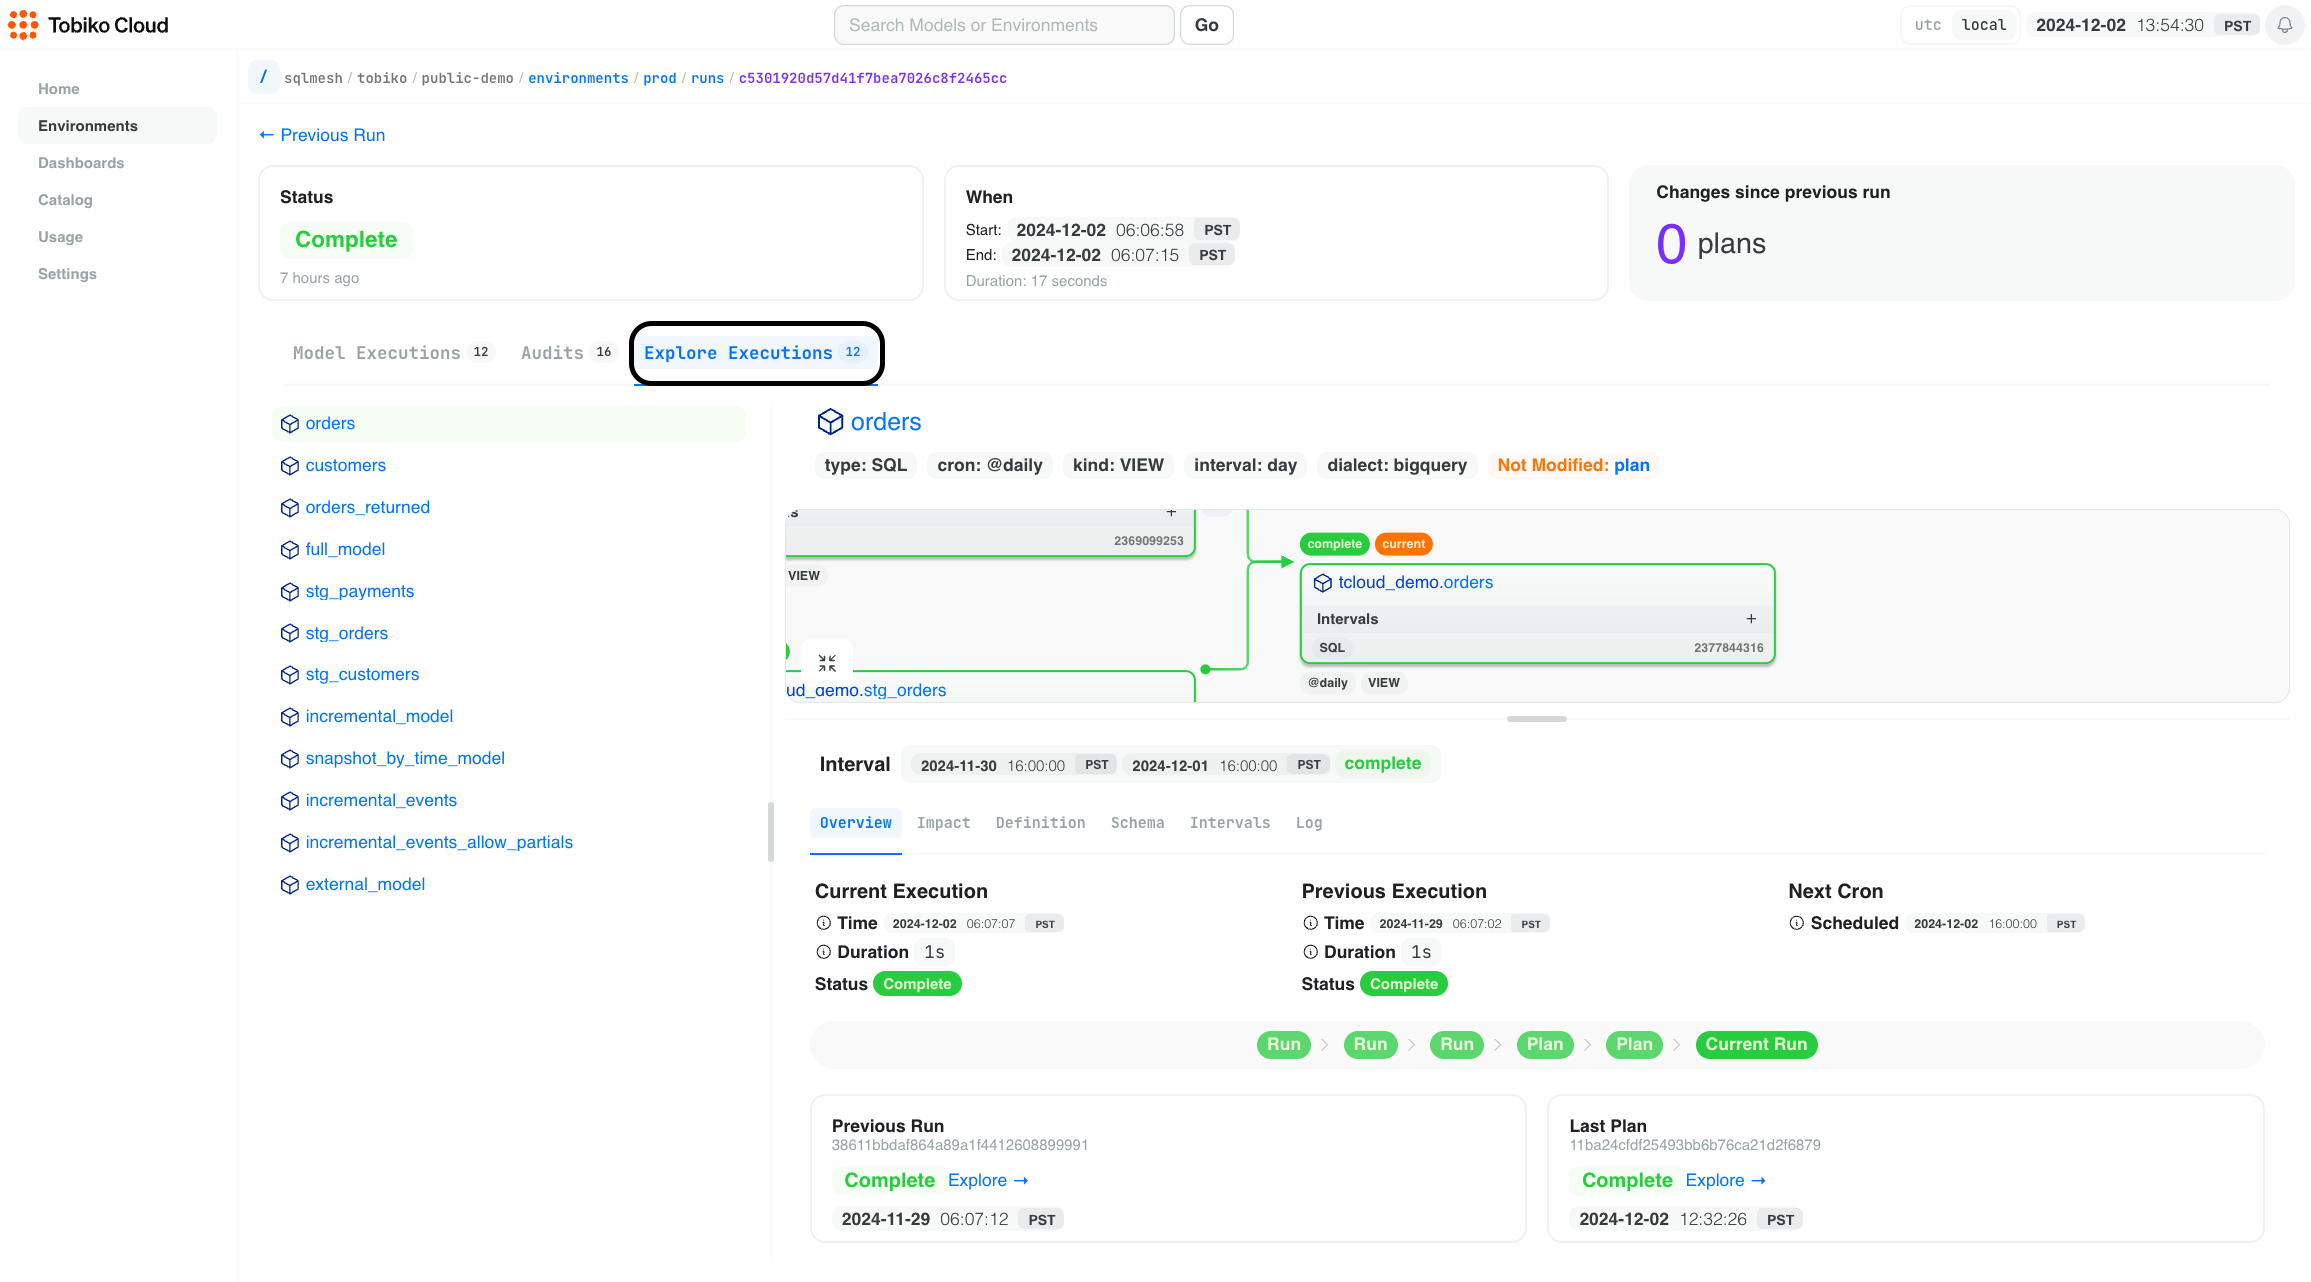
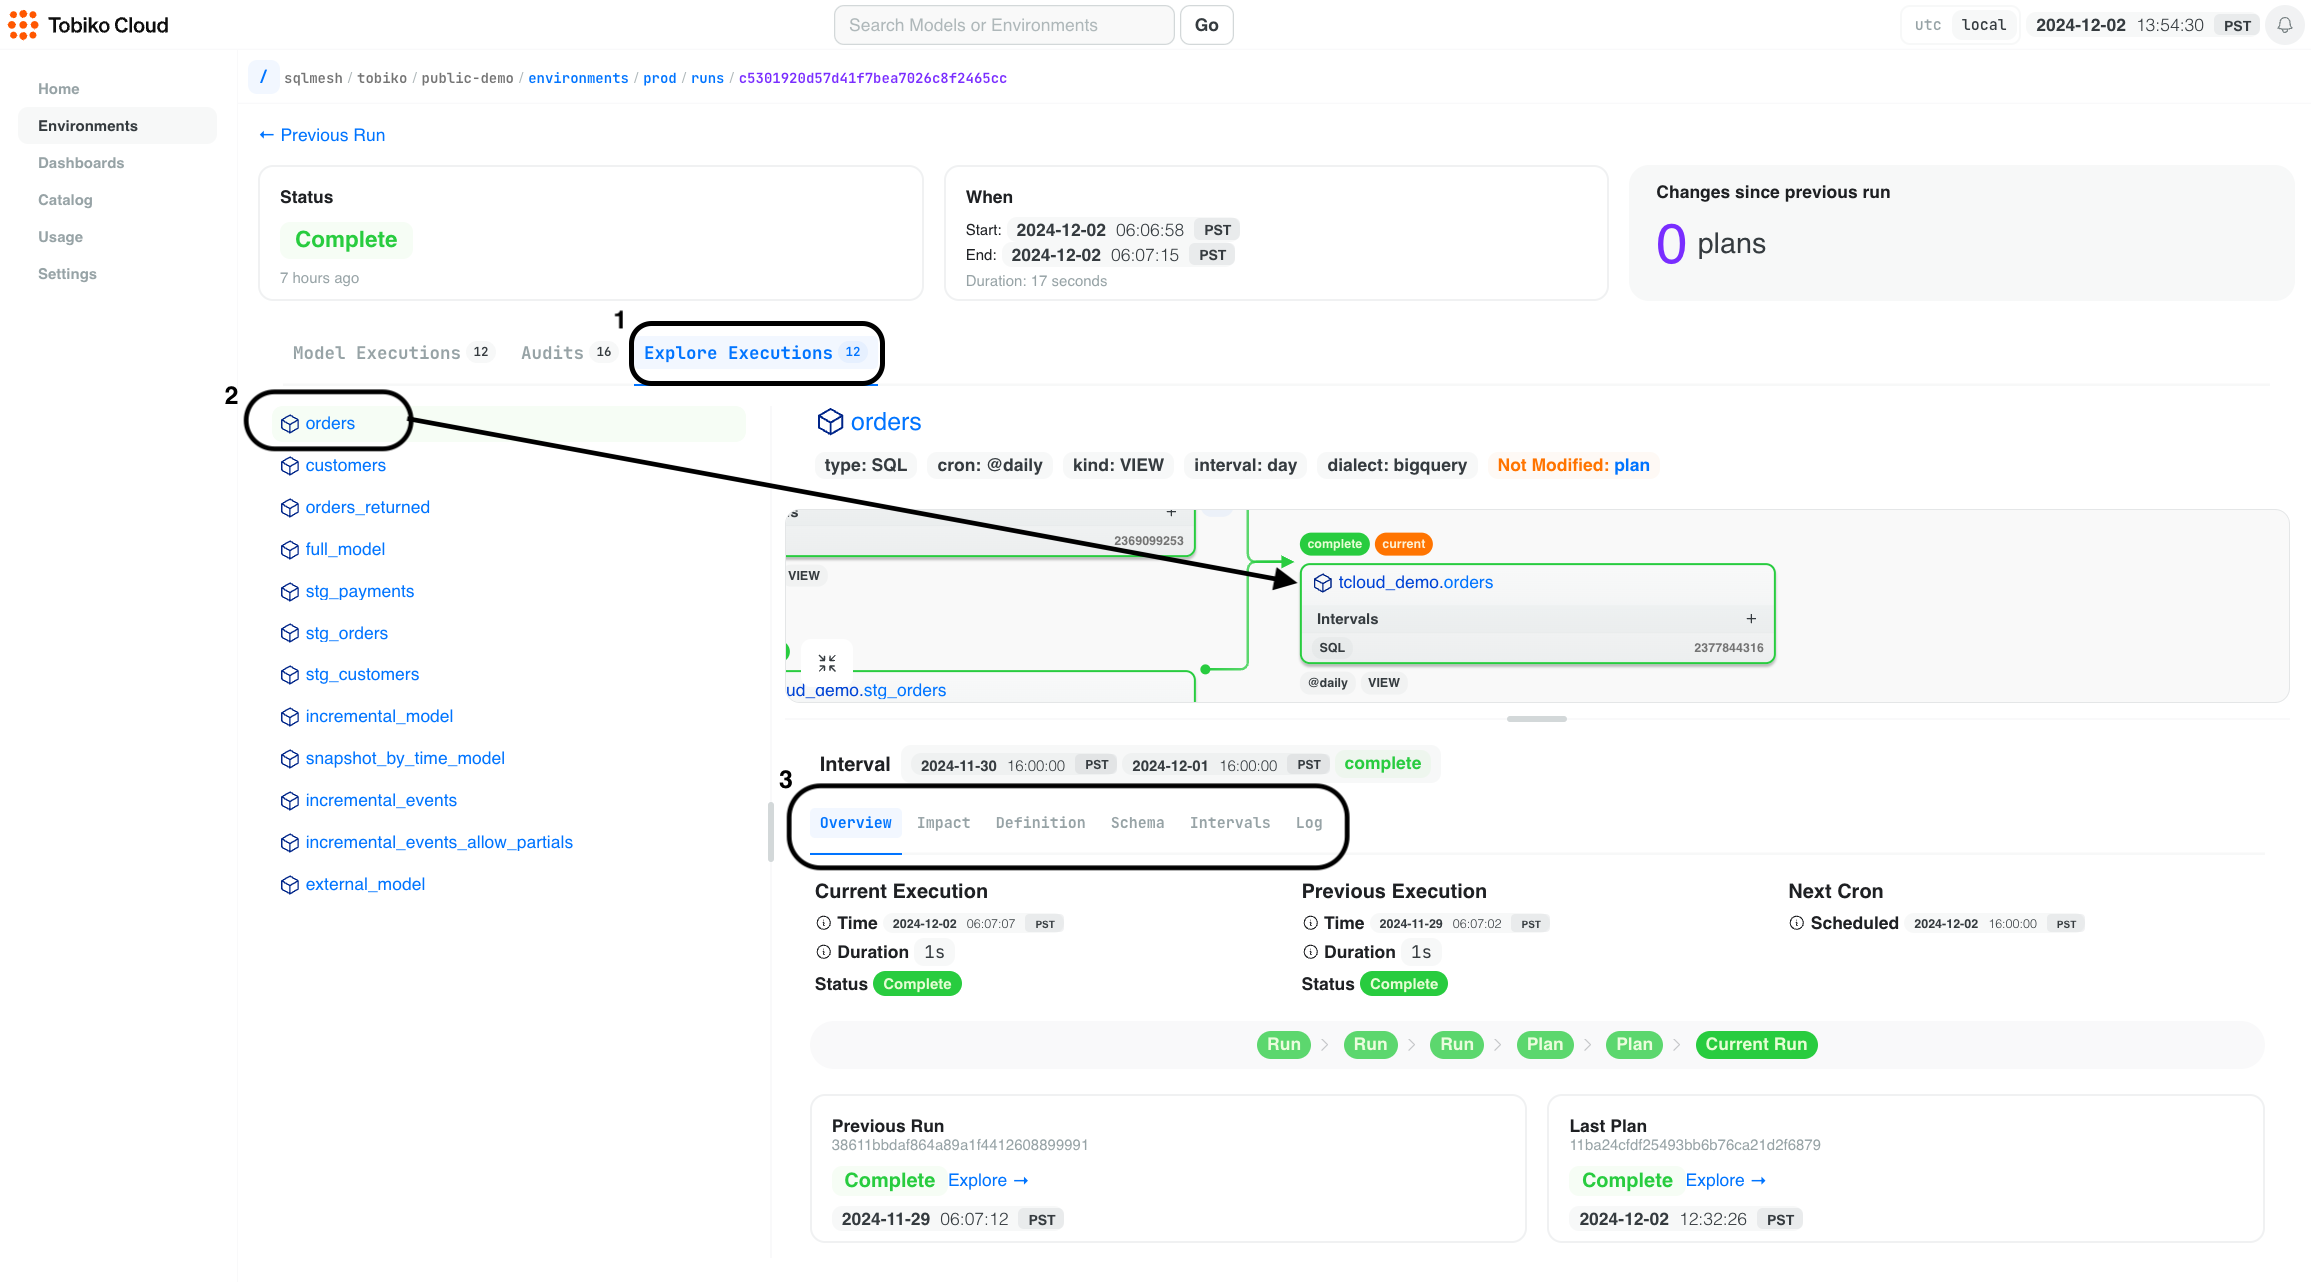
Trey edits

diff --git a/docs/examples/debugger_view.md b/docs/examples/debugger_view.md
@@ -2,61 +2,80 @@
 
 <div style="position: relative; padding-bottom: 56.25%; height: 0;"><iframe src="https://www.loom.com/embed/e8d4f4b3557f47b1a945eee40407f482?sid=49b03511-0415-4715-af04-ac9372247e95" frameborder="0" webkitallowfullscreen mozallowfullscreen allowfullscreen style="position: absolute; top: 0; left: 0; width: 100%; height: 100%;"></iframe></div>
 
-This view is used to help you debug production run issues with your SQLMesh models in Tobiko Cloud. Fixing data pipelines in production is a stressful, time-consuming process, so we're here to make it easier with a few visuals/clicks.
+This view is used to help you debug production run issues with your SQLMesh models in Tobiko Cloud.
 
-> Note: the debugger view is only available for models that have been applied via the `tcloud sqlmesh plan` or `tcloud sqlmesh run` commands to your data warehouse.
+Fixing data pipelines in production is a stressful, time-consuming process, so we're here to make it easier with a few visuals/clicks.
+
+> Note: the debugger view is only available for models that have been executed in your data warehouse via the `tcloud sqlmesh plan` or `tcloud sqlmesh run` commands.
 
 
 ## How to Use the Debugger View
 
-Step 1: Click on any bar within the run history chart to open the debugger view whether green or red.
+Step 1: Click on any bar within the run history chart to open the debugger view. It doesn't matter whether the bar is green or red.
 
 ![debugger_view_step_1](./debugger_view_step_1.png)
 
-Step 2: Click on the "Explore Executions" tab to see specific execution details about the run per model. You'll notice it shows you a focused view of the DAG (think: lineage) with the model that you clicked on.
+<br></br>
+Step 2: Click on the "Explore Executions" tab (bubble 1) to see specific execution details about the run, by model.
+
+Then choose a model to view. We clicked on the `orders` model (bubble 2) - notice that it shows you a focused view of the DAG (think: lineage) centered on whichever model you clicked.
 
 ![debugger_view_step_2](./debugger_view_step_2.png)
 
-From here you can explore the execution details of the run per model with focused tabs. 
+From here, you can explore the execution details of the run with a model's focused tabs (bubble 3).
 
-> Pro tip: you can toggle the timestamps to be in UTC or your local timezone in the upper right.
+The rest of this page describes those tabs.
+
+> Pro tip: you can toggle whether timestamps are in UTC or your local timezone in the page's upper right corner.
 
 ### Overview
 
-- You'll see a high-level overview of the run including the execution time, duration, status, and the next run scheduled.
-- View the past 5 activities of runs and plans to see its historical status. This is useful to get a pulse on how often it succeeds or fails. If you notice it's failing often, this is a good model to start investigating.
+See a summary of the model's characteristics and behavior during current and historical runs.
+
+- You'll see a high-level overview of the model's characteristics, including the execution time, duration, completion status, and next scheduled run.
+- View the past 5 run and plan activities to see the model's historical behavior. This is useful to get a pulse on how often it succeeds or fails. If you notice it's failing often, this is a good model to investigate further.
 - Click on the "Previous Run" tile to explore the details of the previous run. This is useful if you want to compare the previous run to the current one if you notice duration is shorter or longer than expected.
-- Click on the "Last Plan" tile to explore the details of the last plan that was applied. This is useful to see if a code change was made in a way to speed up or elongate the duration of the run. Also, it's helpful to verify if the schema changed in a way that might be causing an issue.
+- Click on the "Last Plan" tile to explore the details of the last plan that was applied. This is useful to see if the model's code was changed in a way that sped up or elongated the duration of the run. It's also helpful to verify if the schema changed in a way that might be causing an issue.
 
 ![overview](./overview.png)
 
 ### Impact
 
-A list format of all the upstream and downstream models that are impacted by this run. This is useful if lots of models are in the DAG view and you want to see all impact at a glance. 
+See the current model's downstream and upstream models in a list format.
+
+This is useful if lots of models are in the DAG view and you want to see the model's full impact at a glance.
 
 ![impact](./impact.png)
 
 
 ### Definition
 
-See the exact code that was applied for the run. This is useful if you want to verify if the code changed in a way that might be causing an issue.
+See the exact code that was executed during the run.
+
+This is useful if you want to determine whether the code changed in a way that might be causing an issue.
 
 ![definition](./definition.png)
 
 ### Schema
 
-See the current schema of the model. This is useful to verify if the schema changed in a way that might be causing an issue.
+See the current model's schema.
+
+This is useful to determine whether the schema changed in a way that might be causing an issue.
 
 ![schema](./schema.png)
 
 ### Intervals
 
-See the specific intervals that were processed in the run. This is useful to verify which exact time ranges succeeded or failed. Also, it's useful to see if interval ranges changed in a way that might be causing an issue such as longer duration.
+See the specific time intervals that were processed during the run.
+
+This is useful to see which exact time intervals succeeded or failed. Also, it's useful to determine whether time intervals changed in a way that might be causing an issue such as longer run duration.
 
 ![intervals](./intervals.png)
 
 ### Log
 
-All the logs from the run. You can filter for multiple levels of logs: `info`, `warning`, `error`, etc.
+See all the SQLMesh logs from the run.
+
+You can filter for multiple levels of logs: `info`, `warning`, `error`, etc.
 
 ![log](./log.png)
